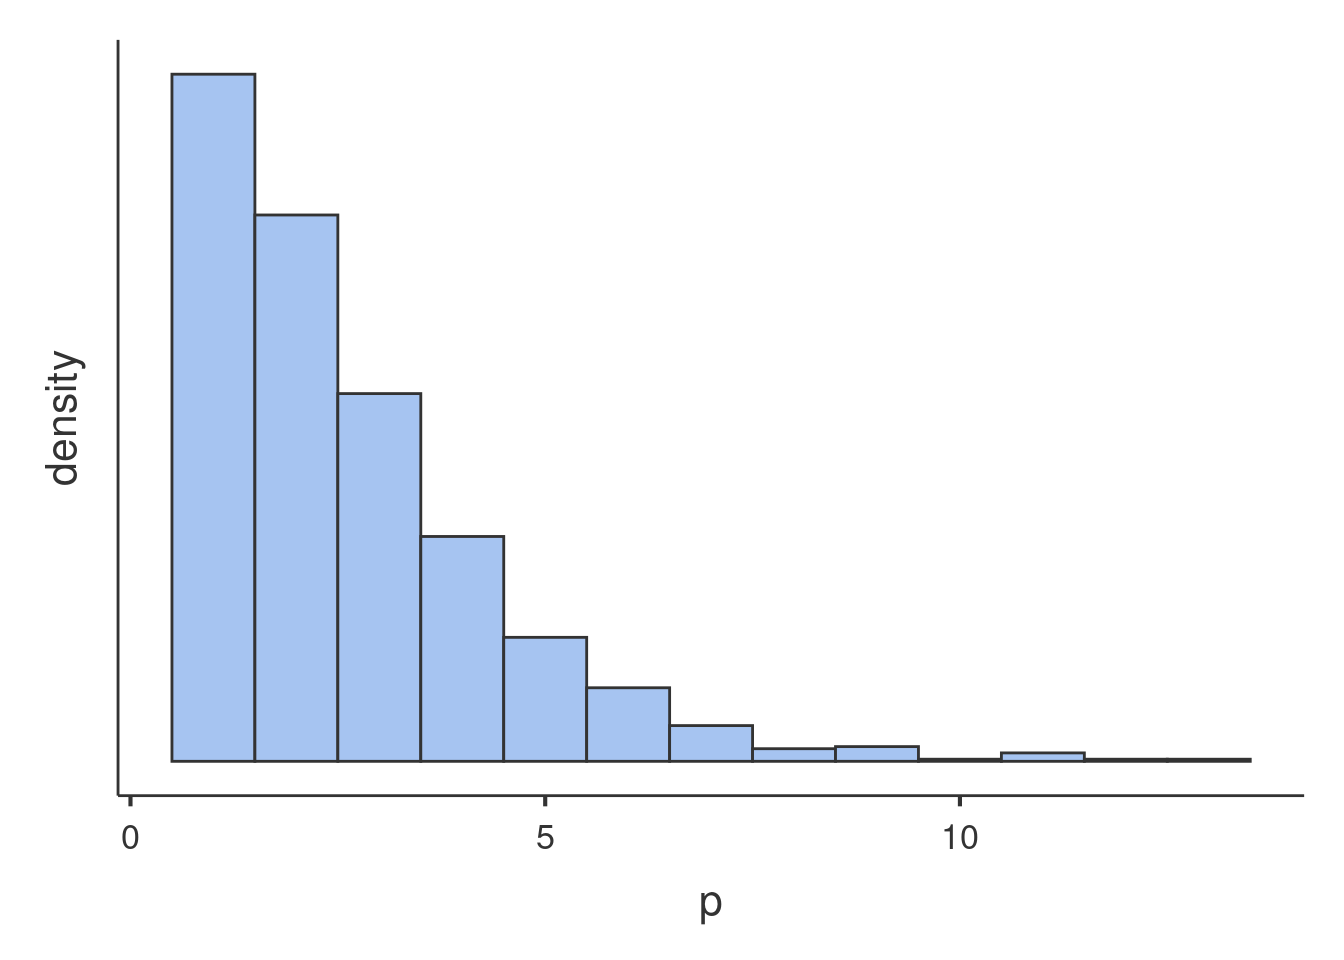
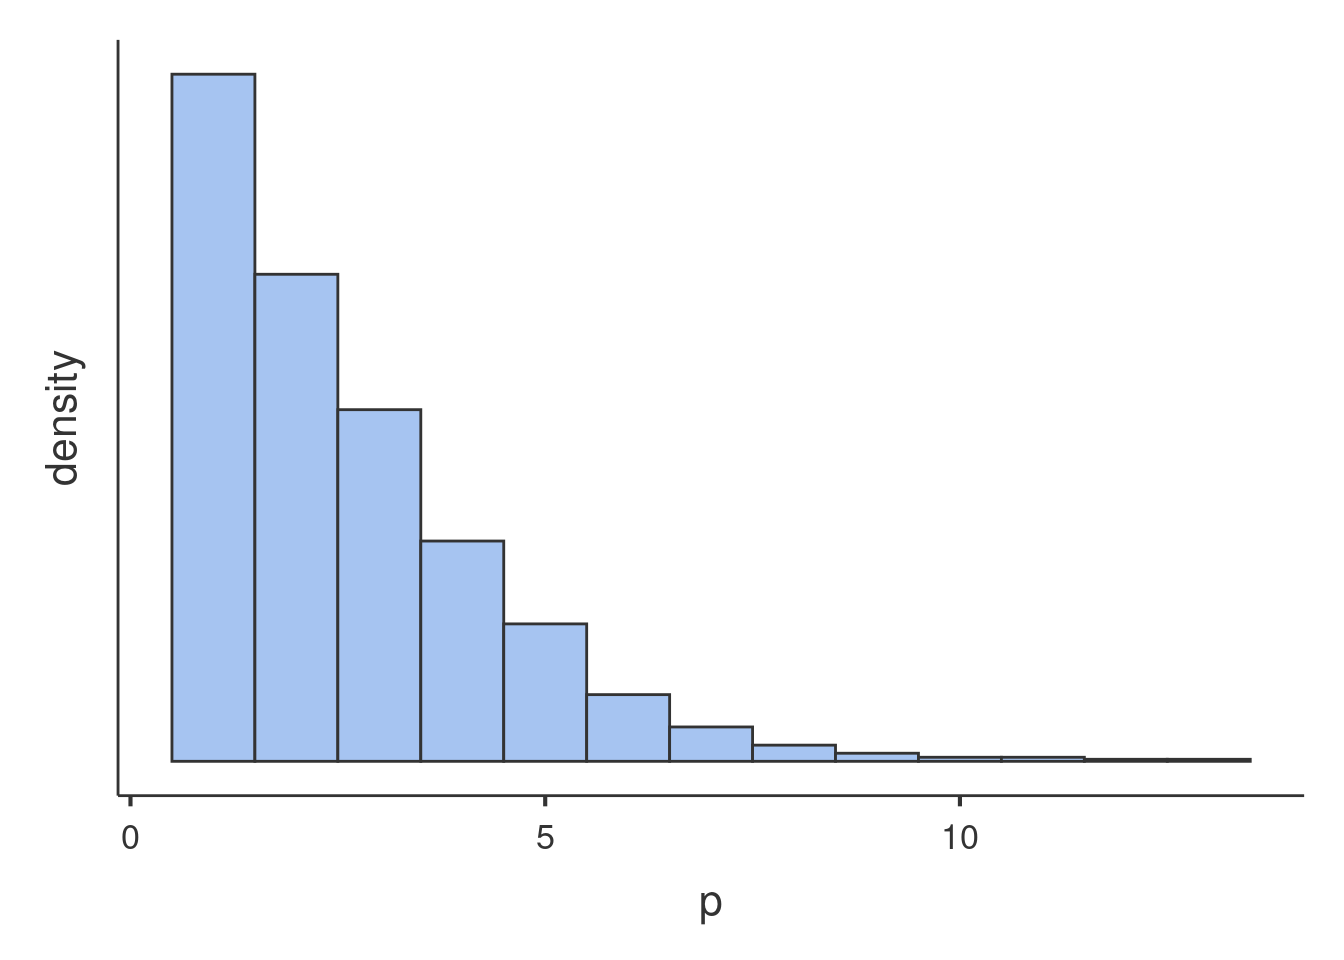
updates

diff --git a/docs/mixed_example5.html b/docs/mixed_example5.html
@@ -400,6 +400,9 @@ logitudinal data</h1>
 </div>
 
 
+<p><span class="keywords"> <span class="keytitle"> keywords </span>
+Mixed models, repeated measures, multilevel models, ANOVA,
+autocorrelation </span></p>
 <p><span class="version"> <span class="versiontitle"> GAMLj version ≥
 </span> 3.0.7 </span> <span class="draft"> Draft version, mistakes may
 be around </span></p>
@@ -420,22 +423,21 @@ library.</p>
 href="https://github.com/seananderson/glmm-course">Sean Anderson’s
 course on mixed model in R</a>. If you are interested in checking the
 results with R, you can find all the R code on Anderson’s GitHub page.
-The data can be downloaded from Anderson’s glmm-course page.</p>
-<p>The data can be downloaded from <a
+The data can be downloaded from <a
 href="https://github.com/seananderson/glmm-course/tree/master/data/raw/freitas-2016">Anderson’s
 github site</a></p>
 </div>
 <div id="the-research-design" class="section level1">
 <h1>The research design</h1>
 <p>The design regards the effect of ocean temperature on how deep
-individually tagged Atlantic cod dove along the Norwegian coast <span
+individually tagged Atlantic cods dove along the Norwegian coast <span
 class="citation">(Freitas et al. 2016)</span>. The data regards 48
-tagged fish (variable <code>fish</code>), each fish measured on average
-105 times, with range [6,159]. Measures correspond to the average depth
-of the dives in a day (<code>depth_mean_day</code>). Together with this
-measures, the date (<code>date</code>) of measurement, and the
-temperature of the water (<code>Temperature_m1</code>).</p>
-<p>Statistically, we simply meed to estimate the relationship between
+tagged fish (variable <code>fish</code>), each fish is measured on
+average 105 times, with range [6,159]. Measures correspond to the
+average depth of the dives in a day (<code>depth_mean_day</code>).
+Together with this measure, the date (<code>date</code>) of measurement,
+and the temperature of the water (<code>Temperature_m1</code>).</p>
+<p>Statistically, we simply need to estimate the relationship between
 temperature and dive depth, but we have clustered data, because each
 fish is repeatedly tested over several days. Interestingly, the date,
 and thus the season, may influence the temperature and also the fish
@@ -461,7 +463,7 @@ measures have the same correlation. This is called <em>compound
 symmetry</em>. Technically, by allowing the intercepts to vary, one
 captures the correlation among repeated measures. If this correlation is
 the same across pairs of measures, the residuals of the model will be
-independent of each other, satisfying the model assumptions</p>
+independent of each other, satisfying the model assumptions.</p>
 <p>When the correlation among pairs of measures is not constant across
 all pairs, the residuals will not be independent of each other,
 potentially leading to biased results. To address this, we can introduce
@@ -470,13 +472,12 @@ into the model. However, estimating all these extra correlations among
 repeated measures can be computationally intensive and may result in
 convergence issues.</p>
 <p>For instance, if there are three repeated measures, the model must
-estimate 3⋅(3−1)/2=33⋅(3−1)/2=3 correlations. But if there are 10
-measures, the number of correlations increases to
-10⋅(10−1)/2=4510⋅(10−1)/2=45. To simplify the estimation process,
-researchers often avoid estimating all these correlations and instead
-impose certain restrictions on the structure of the correlation matrix.
-This is commonly referred to as <em>modelling covariance of
-residuals</em>.</p>
+estimate 3⋅(3−1)/2=3 correlations. But if there are 10 measures, the
+number of correlations increases to 10⋅(10−1)/2=90/2=45. To simplify the
+estimation process, researchers often avoid estimating all these
+correlations and instead impose certain restrictions on the structure of
+the correlation matrix. This is commonly referred to as <em>modelling
+covariance of residuals</em>.</p>
 <p>For temporally ordered data, a common restriction is referred to as
 <strong>Autoregressive of order 1</strong> (AR1). This restriction
 implies that any two consecutive measures are correlated with a

diff --git a/docs/glmmixed_example2.html b/docs/glmmixed_example2.html
@@ -369,6 +369,9 @@ in jamovi</h1>
 </div>
 
 
+<p><span class="keywords"> <span class="keytitle"> keywords </span>
+jamovi, mixed models, generalized linear models, Poisson mixed model,
+multilevel logist, Negative Binomial </span></p>
 <p><span class="version"> <span class="versiontitle"> GAMLj version ≥
 </span> 2.1.2 </span> <span class="draft"> Draft version, mistakes may
 be around </span></p>
@@ -421,8 +424,8 @@ Generalized Linear Model with Poisson distribition may work. However, we
 can check wheather our distribution is in line with the features of the
 Poisson dist by checking its mean and variance. The Poisson distribution
 has variance equal to the mean, in fact the simulated distribution in
-the histogram has <span class="math inline">\(\bar{x}=1.723\)</span> and
-<span class="math inline">\(s^2=1.778\)</span>. The <code>art</code>
+the histogram has <span class="math inline">\(\bar{x}=1.671\)</span> and
+<span class="math inline">\(s^2=1.771\)</span>. The <code>art</code>
 variable distribution has <span
 class="math inline">\(\bar{x}=1.693\)</span> and <span
 class="math inline">\(s^2=3.71\)</span>, with a ratio variance/mean of

diff --git a/docs/glmmixed_example1.html b/docs/glmmixed_example1.html
@@ -368,6 +368,9 @@ div.tocify {
 </div>
 
 
+<p><span class="keywords"> <span class="keytitle"> keywords </span>
+jamovi, mixed models, generalized linear models, logistic mixed model,
+multilevel logist, moderated regression, interactions </span></p>
 <p>In this example we estimate a multilevel logistic regression, with
 interactions, using <span
 class="jamovi"><a href="http://www.jamovi.org" target="_blank">jamovi</a></span>

diff --git a/docs/gzlm_example4.html b/docs/gzlm_example4.html
@@ -378,6 +378,10 @@ models</h1>
 </div>
 
 
+<p><span class="keywords"> <span class="keytitle"> keywords </span>
+jamovi, Poisson models, generalized linear models, odd-ratios,
+regression, frequencies, count data, log-linear models, overdispersion
+</span></p>
 <p><span class="version"> <span class="versiontitle"> GAMLj version ≥
 </span> 0.9.4 </span> <span class="draft"> Draft version, mistakes may
 be around </span></p>

diff --git a/docs/gzlm_example1.html b/docs/gzlm_example1.html
@@ -368,6 +368,9 @@ div.tocify {
 </div>
 
 
+<p><span class="keywords"> <span class="keytitle"> keywords </span>
+jamovi, multinomial models, generalized linear models, post-hoc,
+moderated regression, interactions </span></p>
 <p>In this example we study the relationships between a continuous
 independent variable, a categorical independent variable and their
 interaction on a categorical dependent variable.</p>

diff --git a/docs/glm_example1.html b/docs/glm_example1.html
@@ -378,6 +378,8 @@ regression, and simple slopes</h1>
 </div>
 
 
+<p><span class="keywords"> <span class="keytitle"> keywords </span>
+Multiple regression, moderated regression, simple slopes </span></p>
 <p>In this example we tackle a moderated regression analysis with simple
 slopes analysis and simple slopes graphs. Data are from <a
 href="http://psycnet.apa.org/record/2002-18109-000">Cohen et al 2003</a>

diff --git a/docs/gzlm_example3.html b/docs/gzlm_example3.html
@@ -378,6 +378,9 @@ models</h1>
 </div>
 
 
+<p><span class="keywords"> <span class="keytitle"> keywords </span>
+jamovi, Poisson models, generalized linear models, odd-ratios,
+regression, frequencies, count data, log-linear models </span></p>
 <p><span class="version"> <span class="versiontitle"> GAMLj version ≥
 </span> 0.9.4 </span> <span class="draft"> Draft version, mistakes may
 be around </span></p>

diff --git a/docs/gzlm_example2.html b/docs/gzlm_example2.html
@@ -377,6 +377,9 @@ div.tocify {
 </div>
 
 
+<p><span class="keywords"> <span class="keytitle"> keywords </span>
+jamovi, logistic models, generalized linear models, odd-ratios, ANOVA,
+ANCOVA, factorial designs, interactions </span></p>
 <p><span class="draft"> Draft version, mistakes may be around </span>,
 <span class="version"> <span class="versiontitle"> GAMLj version ≥
 </span> 0.9.7 </span></p>

diff --git a/docs/mixed_example3.html b/docs/mixed_example3.html
@@ -378,6 +378,9 @@ effects</h1>
 </div>
 
 
+<p><span class="keywords"> <span class="keytitle"> keywords </span>
+Mixed models, hierarchical linear model, multilevel model, ANOVA,
+subjects by stimuli </span></p>
 <p><span class="version"> <span class="versiontitle"> GAMLj version ≥
 </span> 1.0.3 </span> <span class="draft"> Draft version, mistakes may
 be around </span></p>

diff --git a/docs/mixed_example4.html b/docs/mixed_example4.html
@@ -400,6 +400,9 @@ variables</h1>
 </div>
 
 
+<p><span class="keywords"> <span class="keytitle"> keywords </span>
+Mixed models, hierarchical linear model, multilevel model, ANOVA,
+crossing, nesting </span></p>
 <p><span class="version"> <span class="versiontitle"> GAMLj version ≥
 </span> 1.0.3 </span> <span class="draft"> Draft version, mistakes may
 be around </span></p>

diff --git a/docs/rosetta_moderation.html b/docs/rosetta_moderation.html
@@ -371,6 +371,9 @@ div.tocify {
 </div>
 
 
+<p><span class="keywords"> <span class="keytitle"> keywords </span>
+jamovi, SPSS, R, Multiple regression, moderated regression, simple
+slopes, PROCESS </span></p>
 <p><span class="version"> <span class="versiontitle"> GAMLj version ≥
 </span> 0.9.1 </span> <span class="draft"> Draft version, mistakes may
 be around </span></p>

diff --git a/docs/glm_example2.html b/docs/glm_example2.html
@@ -377,6 +377,9 @@ div.tocify {
 </div>
 
 
+<p><span class="keywords"> <span class="keytitle"> keywords </span>
+Non-linear regression, Polynomial model, non-linear effects, linear
+model </span></p>
 <p><span class="version"> <span class="versiontitle"> GAMLj version ≥
 </span> 1.5.0 </span></p>
 <p>In this example we work out an example of polynomial regression in
